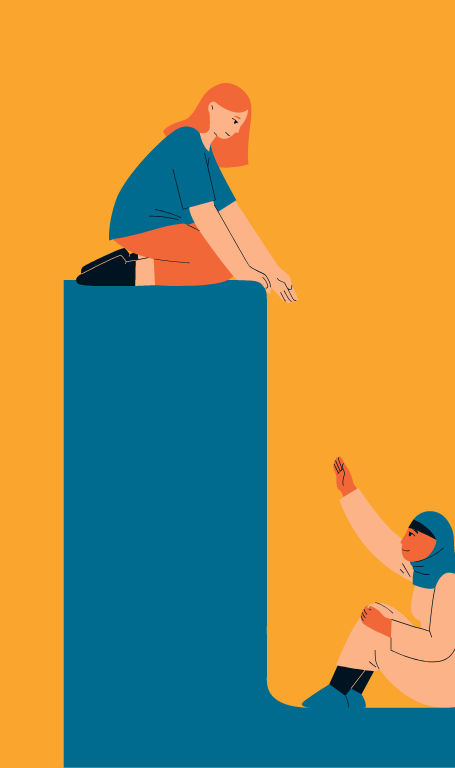
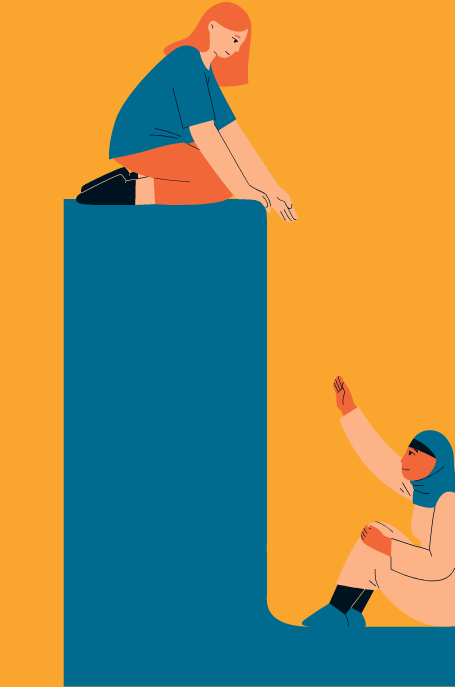
Reformatted second section

Changed region(s): [[0.1231, 0.0, 0.6462, 0.3974], [0.5846, 0.5502, 1.0, 0.9476], [0.9846, 0.8253, 1.0, 0.8559]]

diff --git a/youth-leading-the-way.html b/youth-leading-the-way.html
@@ -93,12 +93,12 @@
           <b>recognition and compensation</b>.
         </p>
       </section>
-      <div class="third-section">
-        <div class="third-section-div">
-          <h2>
+      <section class="third-section wrapper">
+        <div>
+          <h3 class="sub-title">
             Youth Leading the Way Program (now till March 2024) entails...
-          </h2>
-          <ol class="organised-list">
+          </h3>
+          <ol class="csc-text">
             <li>
               Free volunteer matching services for 60 youth participants to
               volunteer service placement(s) to fulfill 120 hours of community
@@ -117,12 +117,12 @@
               long-term connections from this program
             </li>
           </ol>
-          <div class="round-box">
+          <div class="round-box csc-text bottom-box">
             For any questions, please email outreach@helpinghandsapp.com
           </div>
         </div>
-        <img class="landing-header second-img" src="./img/lp3.png" alt="" />
-      </div>
+        <img src="./img/lp3.png" alt="Extending hand to help someone below." />
+      </section>
       <div class="faq">
         <h3 class="faq-title">FAQ</h3>
         <div>
@@ -143,10 +143,10 @@
               </svg>
             </span>
           </button>
-          <ol class="panel">
+          <ol class="panel csc-text">
             <li>
               Email Helping Hands at
-              <a href="mailto:outreach@helpinghandsapp.com">
+              <a class="csc-link" href="mailto:outreach@helpinghandsapp.com">
                 Helping Hands Outreach </a
               >about your interest in the program.
             </li>

diff --git a/css/youth-leading-the-way.css b/css/youth-leading-the-way.css
@@ -12,7 +12,7 @@ html {
   max-width: 1200px;
 }
 
-.csc-header img {
+img {
   max-width: 100%;
 }
 
@@ -23,7 +23,6 @@ html {
 }
 
 .sub-title {
-  font-weight: 600;
   font-size: 40px;
   font-family: League Spartan;
 }
@@ -33,9 +32,9 @@ html {
   font-family: Lato;
 }
 
-#main-content {
-  font-family: Lato;
-  font-size: 23px;
+.csc-link {
+  text-decoration: underline;
+  color: white;
 }
 
 .round-box,
@@ -43,9 +42,14 @@ html {
   border: none;
   background-color: #f07015;
   color: white;
-  font-size: 0.8rem;
   padding: 20px;
   max-width: max-content;
+}
+
+.bottom-box {
+  margin-top: 40px;
+  margin-bottom: 20px;
+  font-size: 20px;
 }
 
 .accordion {
@@ -113,10 +117,7 @@ html {
   .third-section {
     display: flex;
     justify-content: space-between;
-    margin-left: 7rem;
     align-items: center;
-    margin-bottom: 4rem;
-    max-width: 1400px;
   }
   .faq,
   .interested {
